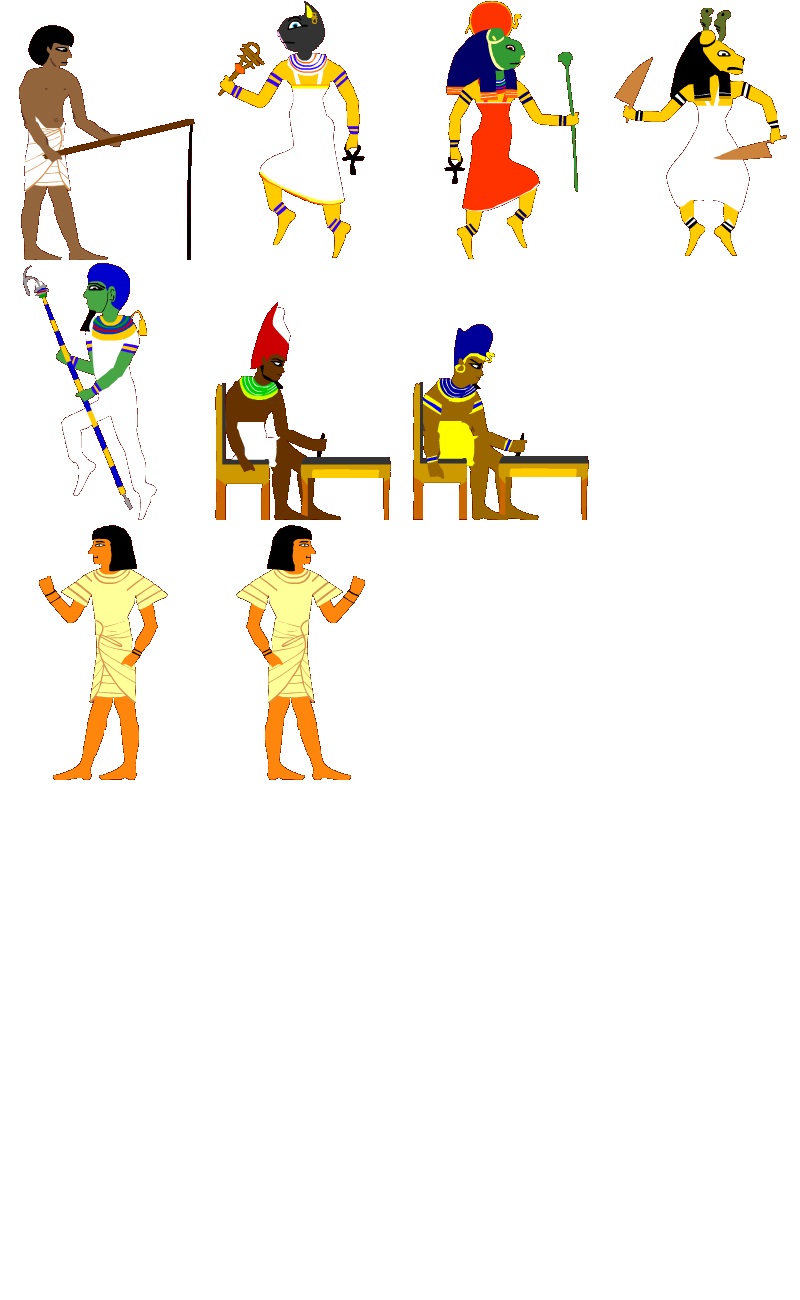
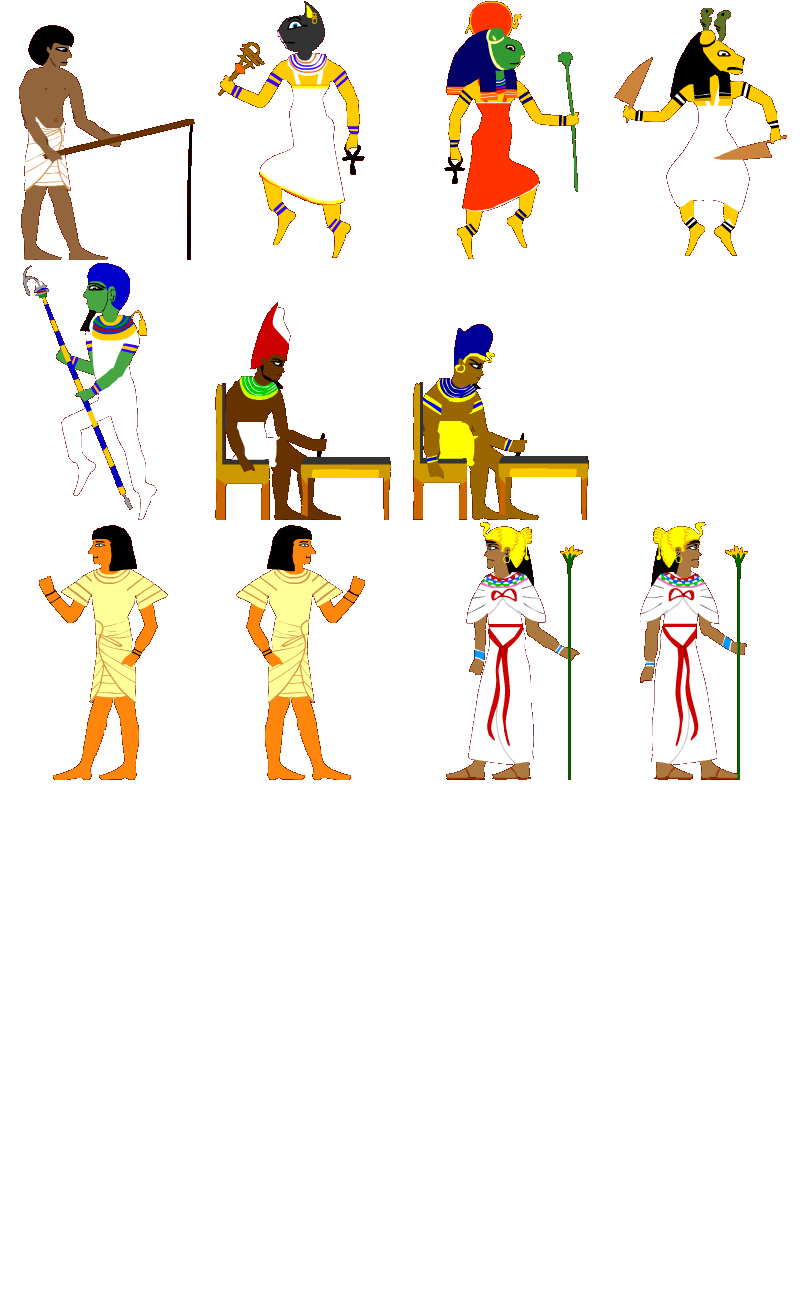
praise soybek

Changed region(s): [[0.5625, 0.4, 0.7188, 0.6154], [0.7812, 0.4, 0.9375, 0.6154]]

diff --git a/js/things.js b/js/things.js
@@ -58,7 +58,9 @@ const things = {
     "student2": { type: "person", sprite: "peopleMisc", sx: 2, sy: 1, noDir: true, name: "Neferhotep", text: "student2" },
     "teacher": { type: "person", sprite: "peopleMisc", sx: 0, sy: 2, dir: 0, name: "Bebi", text: "teacher" },
     "biff": { type: "person", sprite: "pers2tiny", anim: "regular", dir: 1, name: "Amenken", text: "amenken1", textAlt: "amenken2", movement: "hume1" },
-    
+    // Shedet
+    "sobekpriest": { type: "person", sprite: "peopleMisc", sx: 2, sy: 2, dir: 0, name: "Huy", text: "teacher" },
+
     /* --- SHOP STUFF --- */
     "boxFish": { type: "bg", sprite: "justabox", sy: 1, background: true },
     "boxBread": { type: "bg", sprite: "justabox", sx: 1, background: true },

diff --git a/js/main.js b/js/main.js
@@ -110,6 +110,7 @@ http://www.touregypt.net/featurestories/flowers.htm
 https://academic.oup.com/jn/article/131/3/951S/4687053#111851571
 https://beeaware.org.au/pollination/pollinator-reliant-crops/onions/
 https://www.onions-usa.org/all-about-onions/history-of-onions
+https://www.ancient.eu/article/1026/clergy-priests--priestesses-in-ancient-egypt/
 
 http://pcela.rs/Egyptian_Beekeeping_1.htm
 https://egyptmanchester.wordpress.com/2012/08/10/beekeeping-in-ancient-egypt-and-today/

diff --git a/js/land.js b/js/land.js
@@ -278,7 +278,7 @@ const land = {
             land.rightclick(true);
             return;
         }
-        if(land.cutscene.active) { return; }
+        if(land.cutscene.active || land.inDialogue) { return; }
         if(key === player.controls.right) {
             if(land.playerDir === 1) { 
                 land.playerX += land.modernTimes ? 3 : 5;

diff --git a/js/places.js b/js/places.js
@@ -104,6 +104,7 @@ const places = {
     "Shedet": function() {
         const res = [
             { x: 3500, id: "sobek" }, { x: 3500, id: "sobekAltar" },
+            { x: 3900, id: "sobekpriest"},
             { x: 2450, id: "puddle" },
             { x: 2550, id: "puddle" },
             { x: 4500, id: "puddle" },
